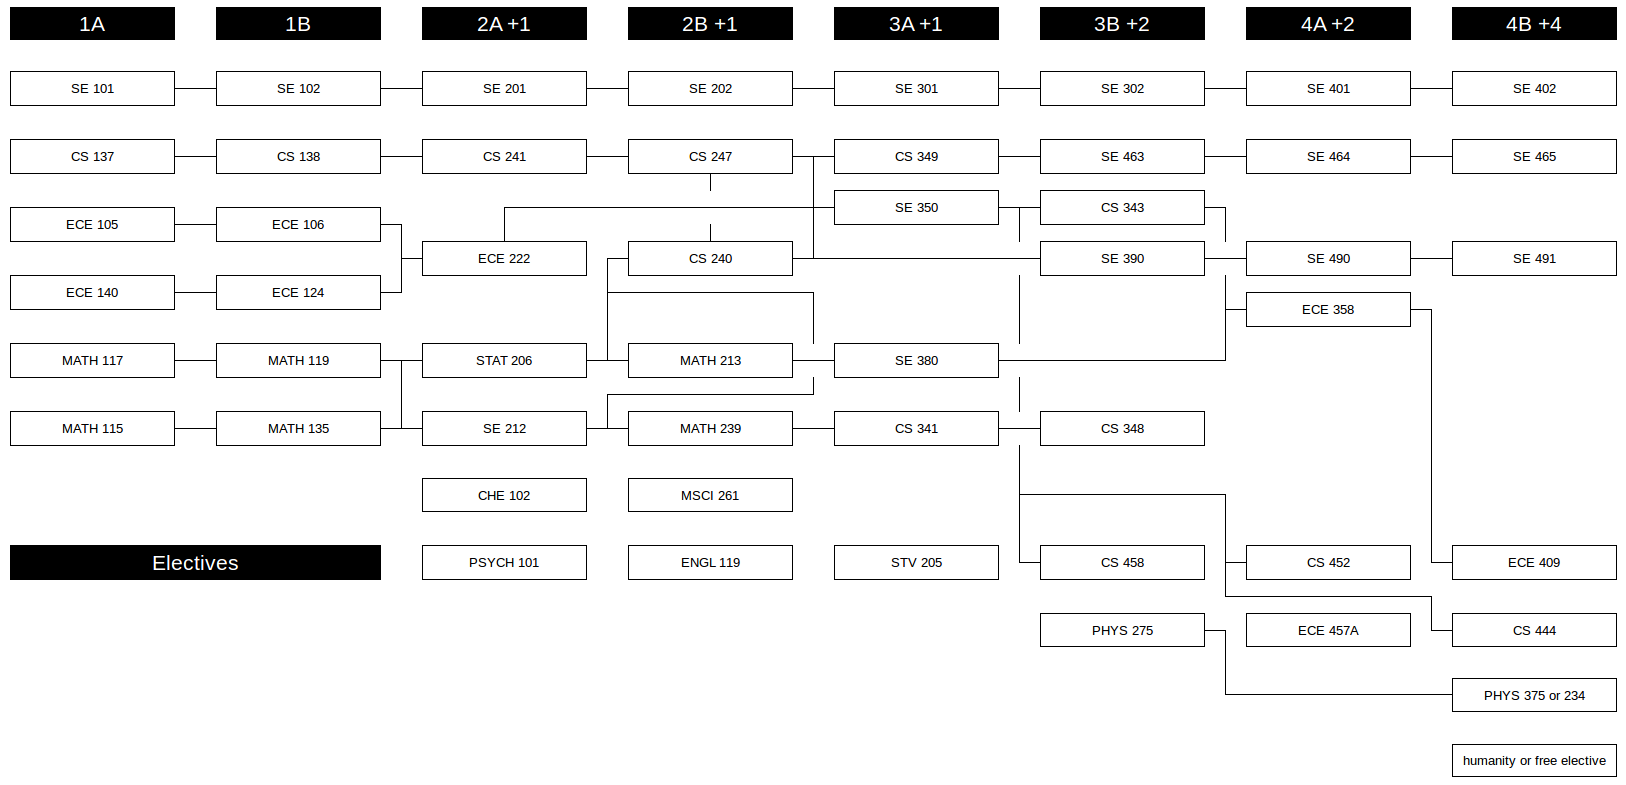
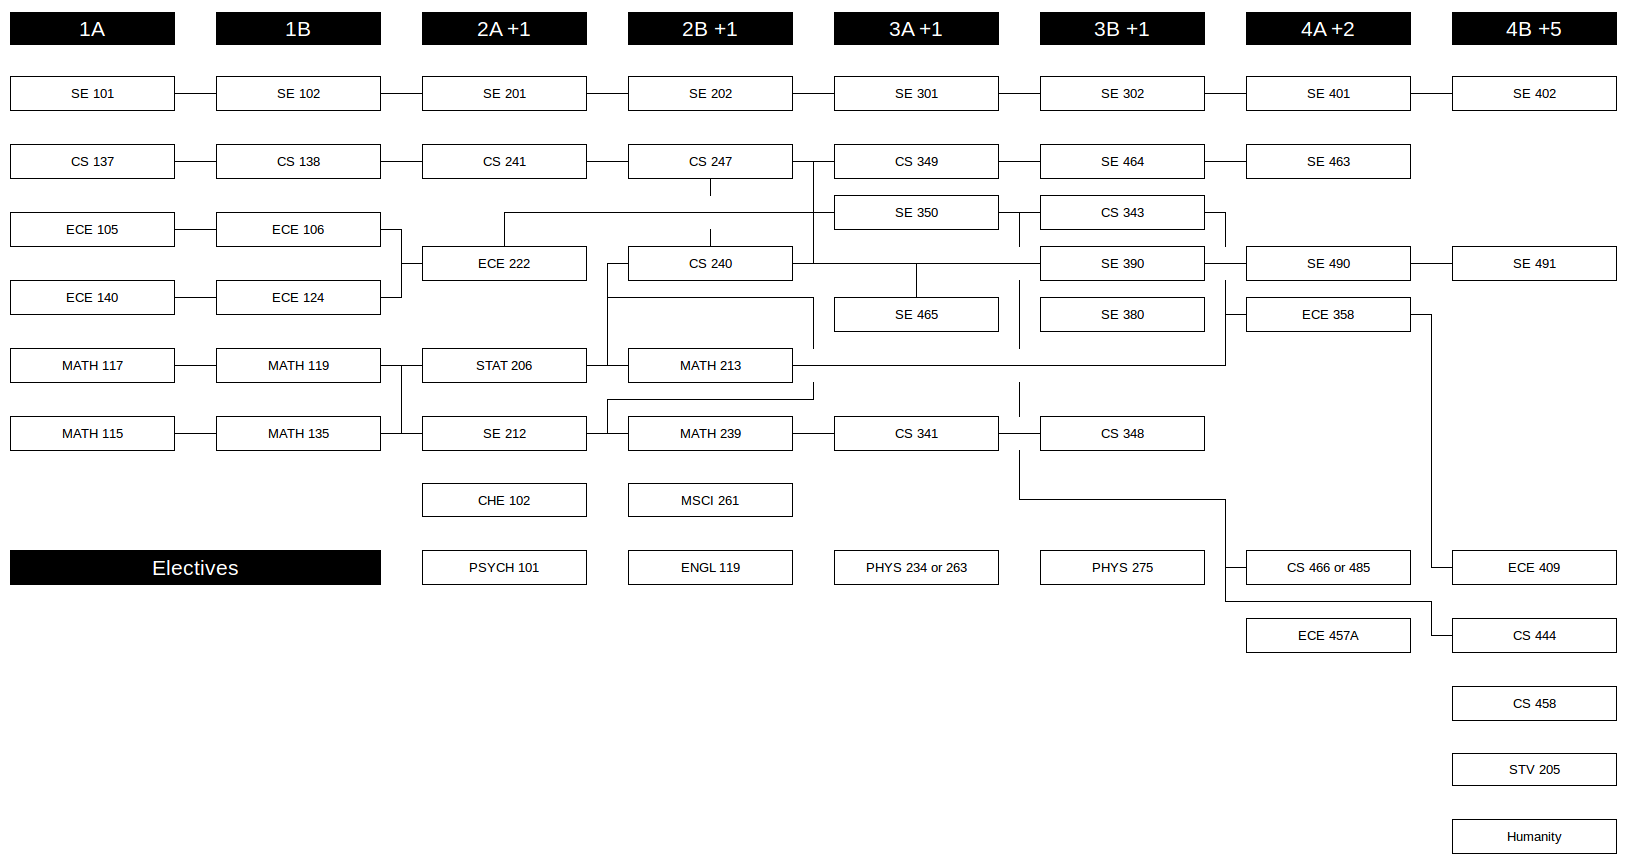
modified course chart and plan for new SE flow

diff --git a/plan.md b/plan.md
@@ -1,0 +1,77 @@
+PLAN
+====
+3A (Winter)
+PHYS 234 (Quantum) or PHYS 263 (Classical Mechanics)
+
+3B (Fall)
+PHYS 275 (Astro)
+
+4A (Spring)
+Two of:
+- ECE 457A (Cooperative and Adaptive Algorithms)
+- CS 485 (Machine Learning)
+- CS 466 (Algorithm Design)
+
+4B (Winter)
+STV 205 (Cybernetics)
+CS 444 (Compiler Construction)
+CS 458 (Computer Security and Privacy)
+ECE 409 (Applied Cryptography)
+HUMANITY
+
+
+Potential Humanity Courses
+--------------------------
+* ECON 101 (Micro)
+* ECON 102 (Macro)
+* SPCOM 223 (Speeches)
+* RS 121 (Evil)
+* RS 170 (Religion and Pop Culture)
+* RS 258 (God)
+* RS 370 (Athiesm, Skepticism, and Free-Thought)
+* SMF 206 (Introduction to Sexuality)
+* ANTHRO 101 (Introduction to Anthropology)
+* EASIA 201R (East Asian Culture)
+* MUSIC 246 (Soundtracks... override?)
+
+
+Interesting Courses
+-------------------
+|Course                                              |Available      |
+|----------------------------------------------------|---------------|
+|HUMANITY                                            |3A, 3B, 4A, 4B |
+|                                                    |               |
+|STV 205 (Cybernetics)                               |3A, 3B, 4A, 4B |
+|                                                    |               |
+|PHYS 275 (Astro)                                    |3B             |
+|PHYS 375 (Astro 2)                                  |4B             |
+|PHYS 234 (Quantum)                                  |3A, 4A, 4B     |
+|PHYS 263 (Classical Mechanics)                      |3A, 4A, 4B     |
+|                                                    |               |
+|CS 444 (Compiler Construction)                      |4B             |
+|CS 452 (Real-time Programming)                      |3B, 4A         |
+|CS 458 (Computer Security and Privacy)              |3B, 4B         |
+|CS 466 (Algorithm Design)                           |3B, 4A         |
+|CS 485 (Machine Learning)                           |3B, 4A, 4B     |
+|ECE 409 (Applied Cryptography)                      |4B             |
+|ECE 457A (Cooperative and Adaptive Algorithms)      |4A             |
+
+
+Harley
+======
+3A
+STV 205
+
+3B
+EARTH 121
+SCI 206
+
+4A
+ECE 455
+CS 370
+
+4B
+CS 488
+ATE
+ENGL 119
+HUMANITIES
